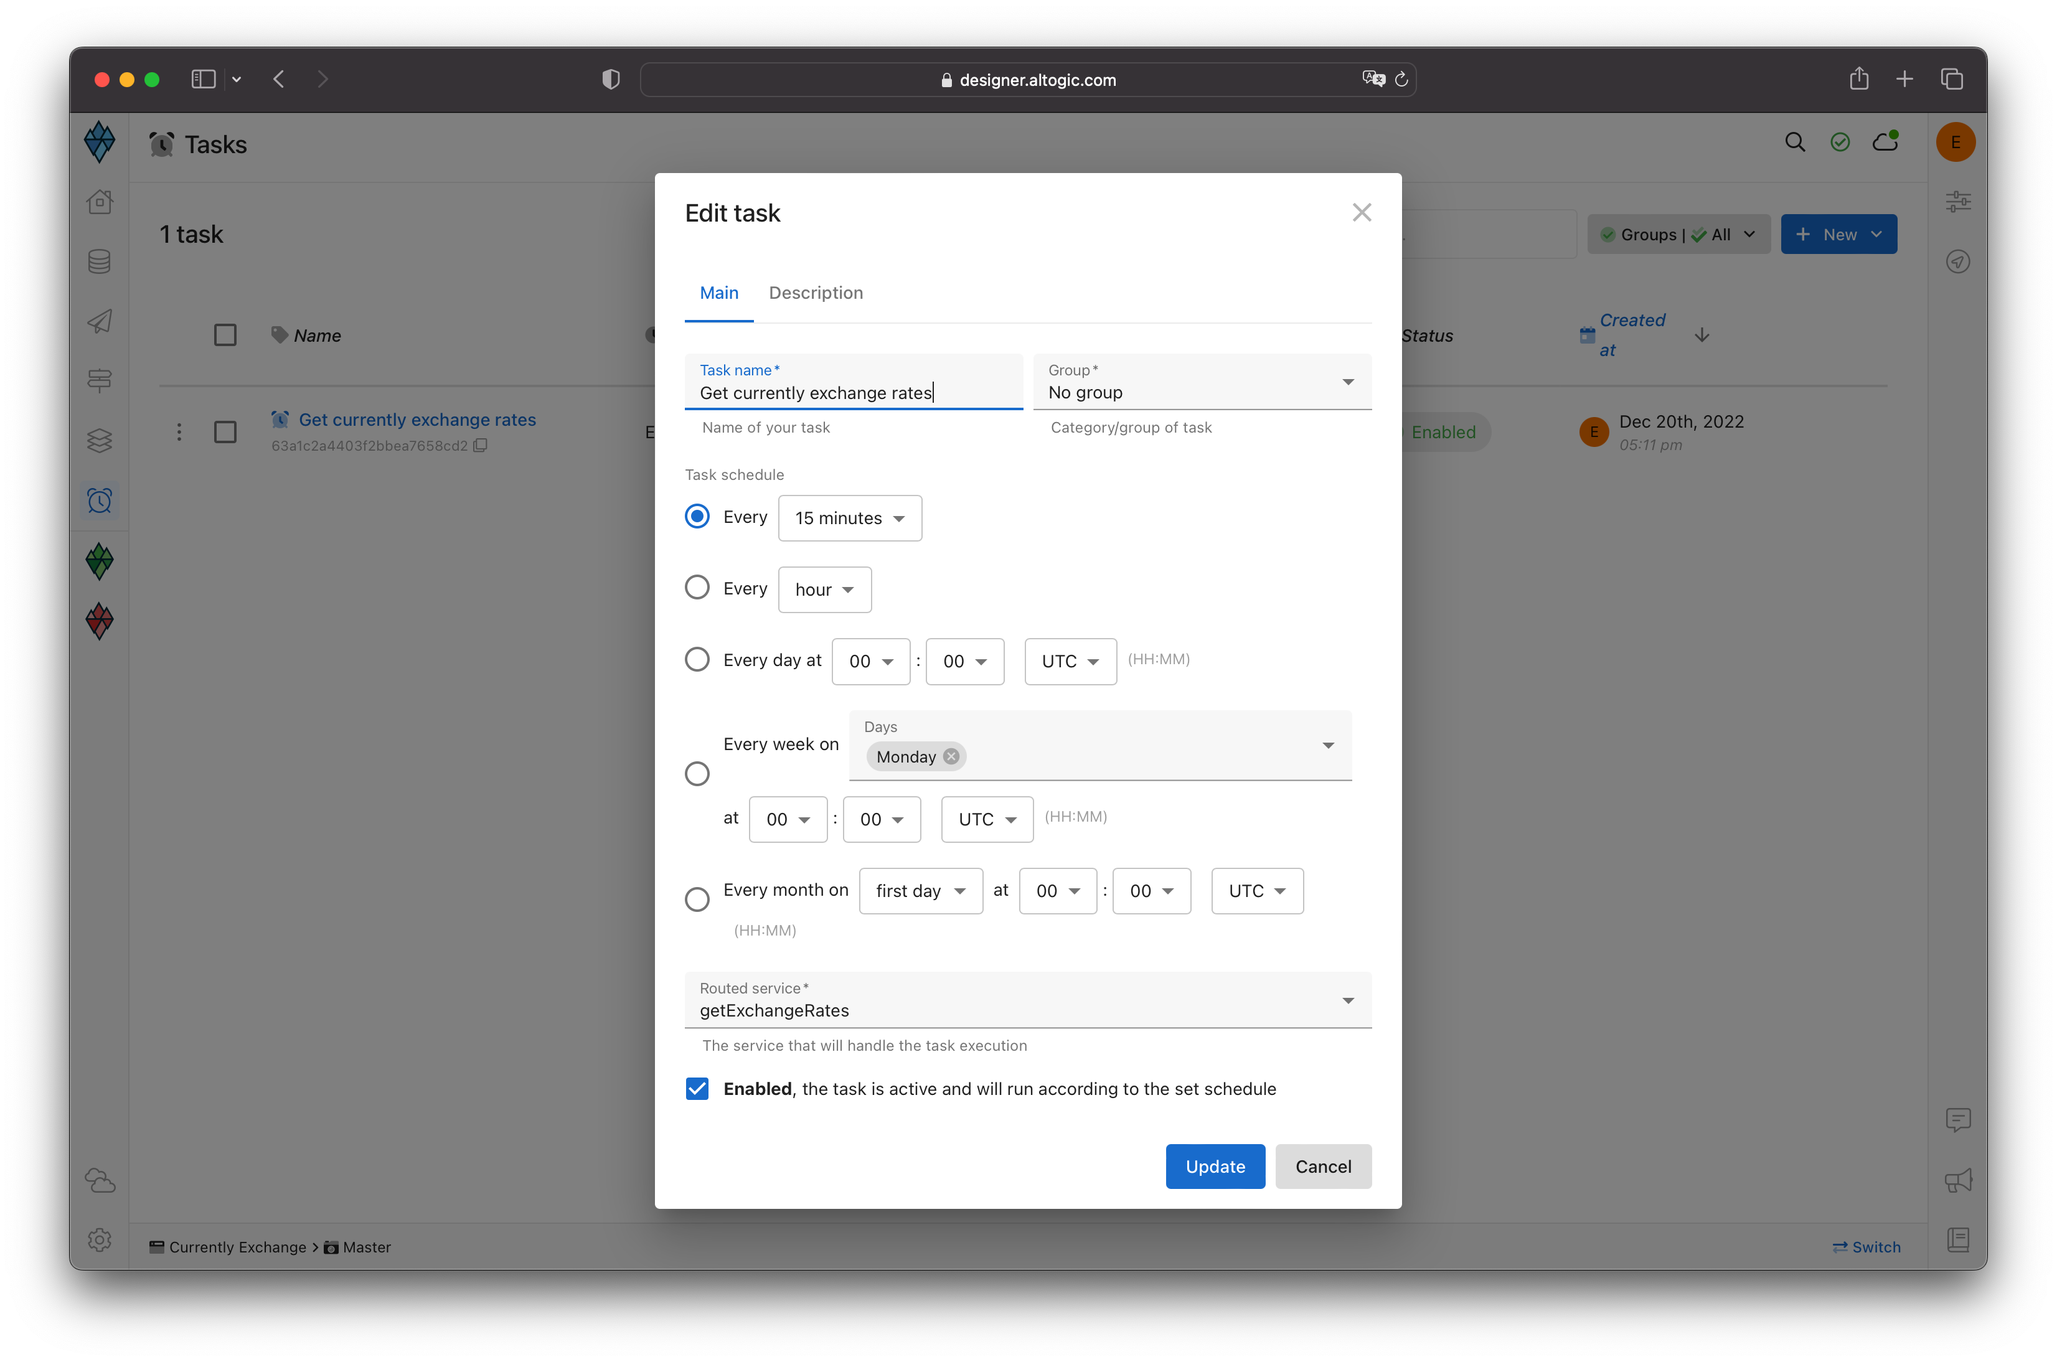
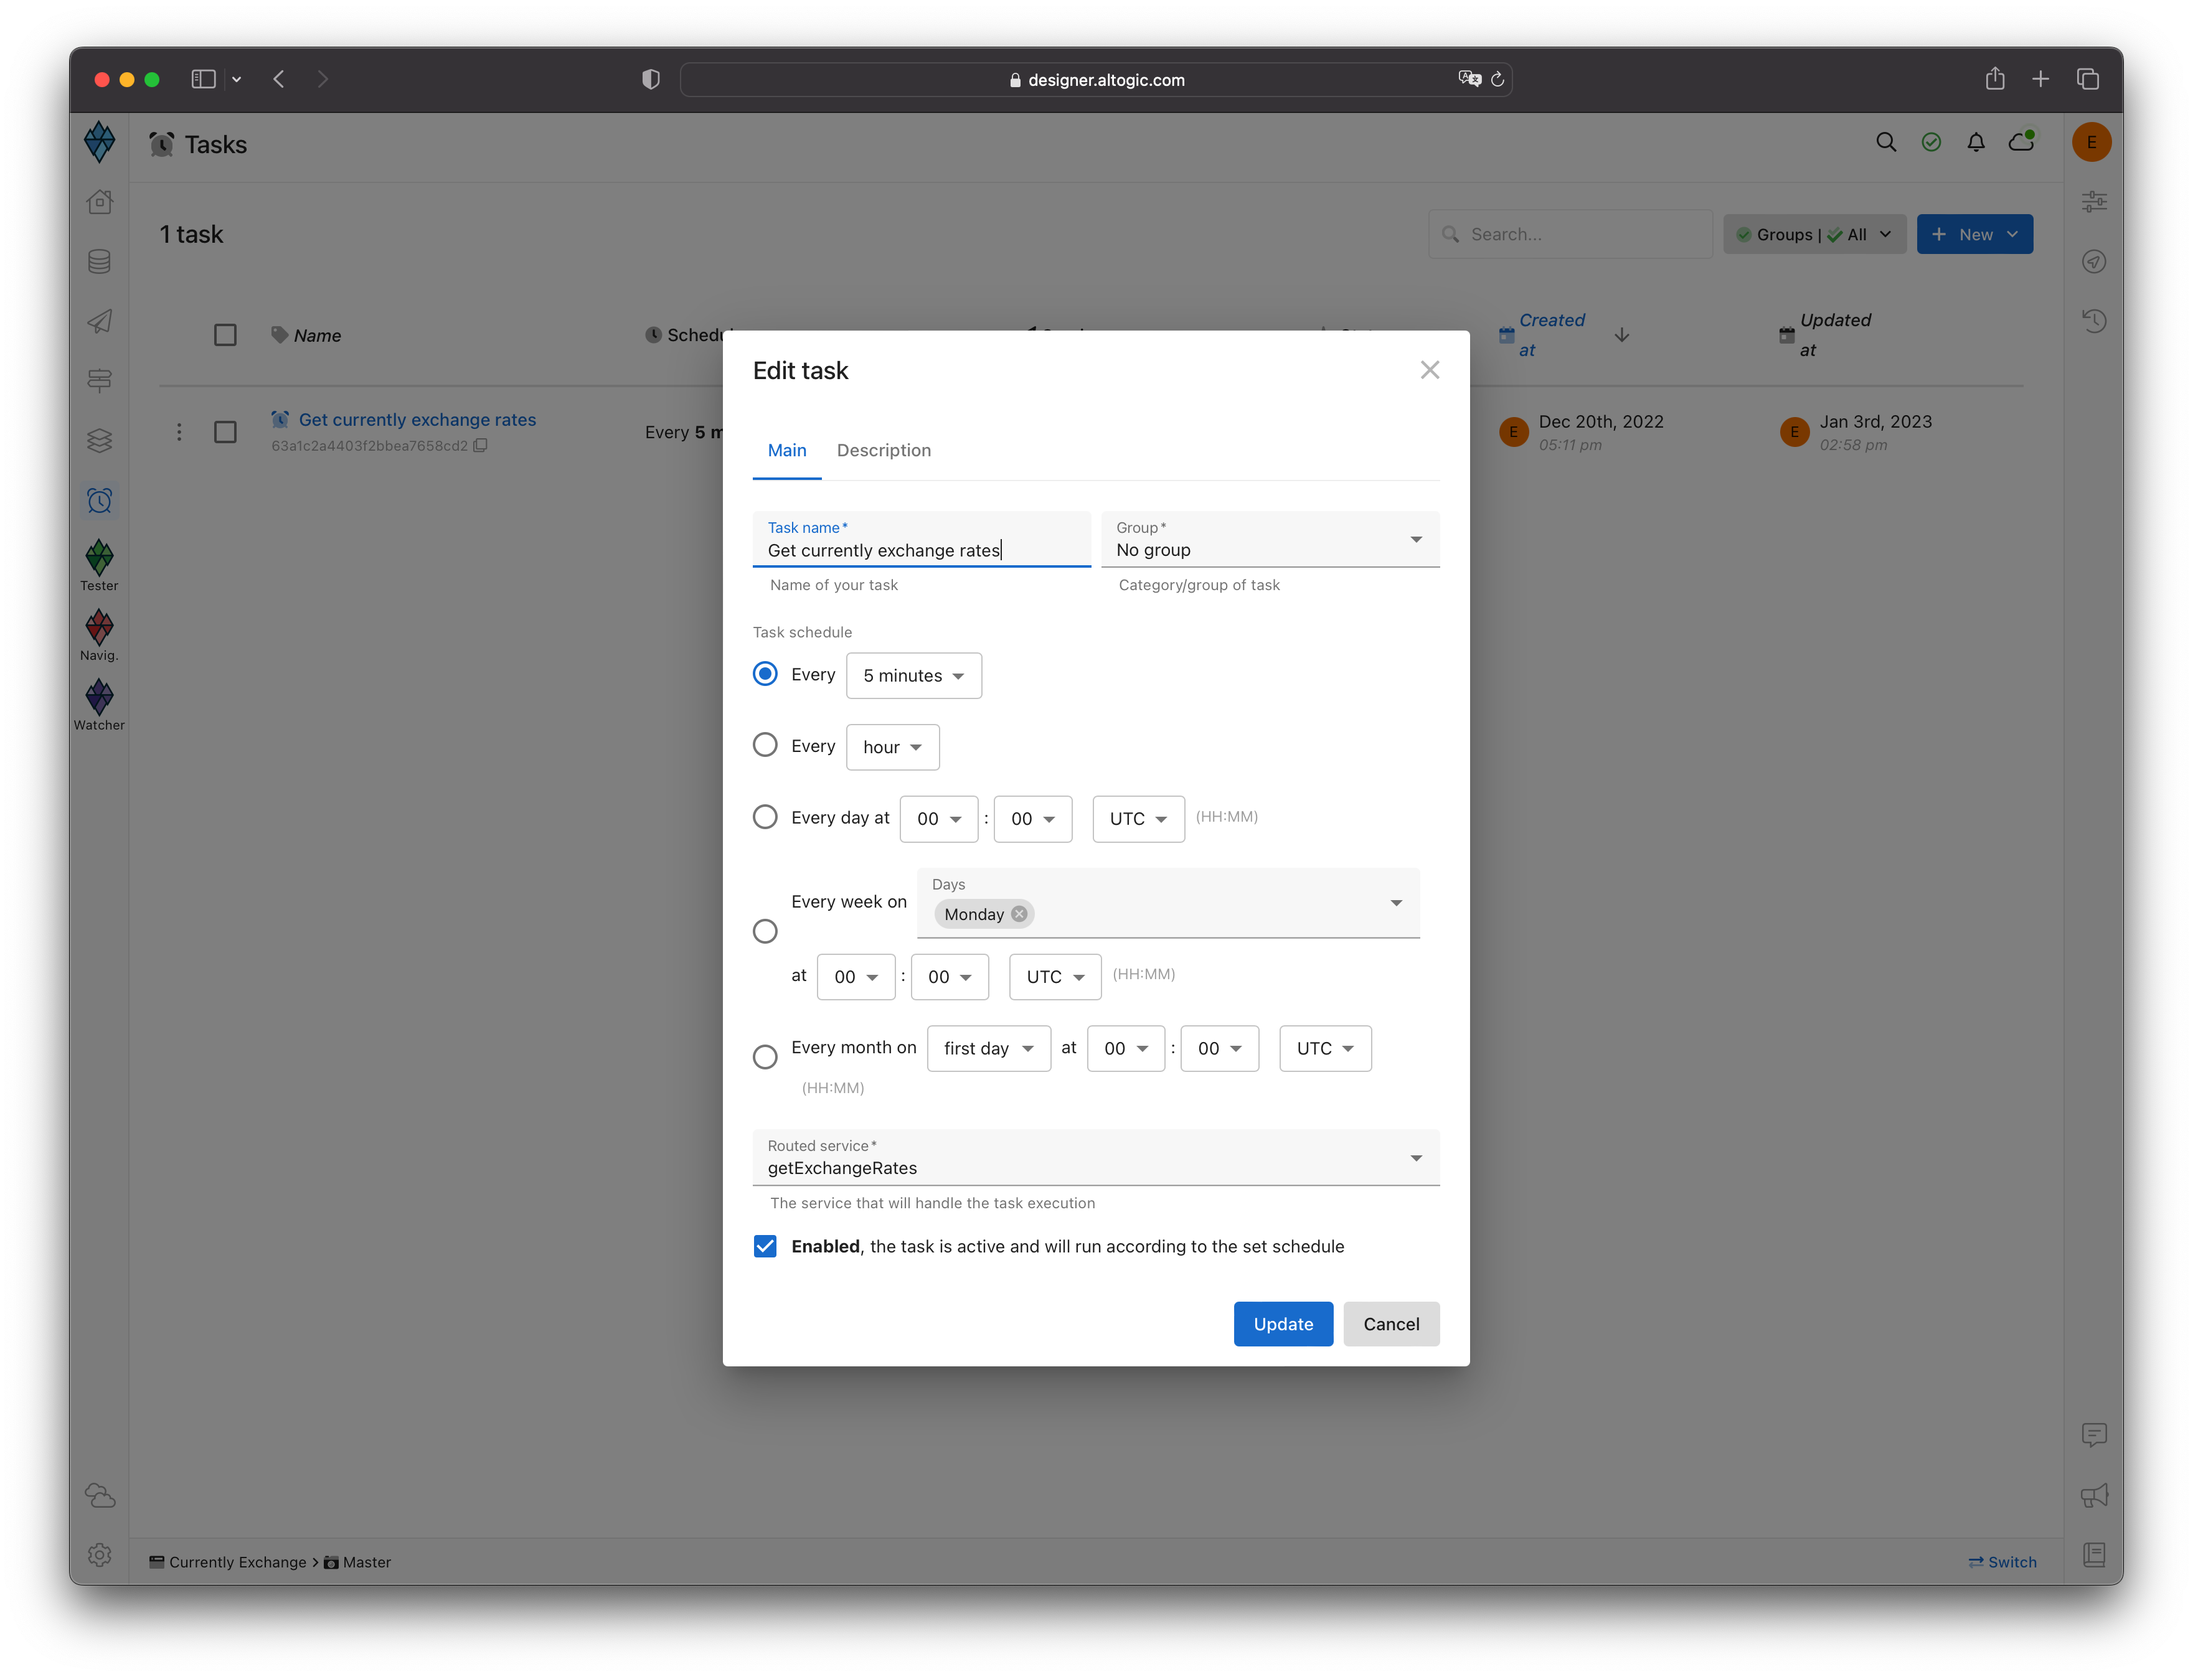
Exchange rates updated for new realtime service

diff --git a/README.md b/README.md
@@ -8,7 +8,7 @@ You can access the full source code on our example repository.
 
 Exchange Rates is an application that displays exchange rates instantly. 
 
-In this example, we will create a cloud function to pull the data and scrape the HTML page. We will create a cron job for the scrape process to run every 15 minutes and use the Realtime service to instantly reflect the captured data to the user after saving it to the database.
+In this example, we will create a cloud function to pull the data and scrape the HTML page. We will create a cron job for the scrape process to run every 5 minutes and use the Realtime service to instantly reflect the captured data to the user after saving it to the database.
 
 ## Creating an Altogic App
 First, let's create an altogic app.
@@ -78,7 +78,8 @@ The service will save the scraped data to the database.
 * <strong>`Get Object Value:`</strong> We have entered the picked value as "inputObject.body".
 * <strong>`Delete Multi Objects by Query:`</strong> We have selected "exchange_rates" in the Deleted object model and entered the select query as true.
 * <strong>`Synchronize Flow:`</strong> We have selected "pickedValue" in the Triggered inputs.
-* <strong>`Create Multi Objects:`</strong> We have selected "exchange_rates" in the Created objects model.
+* <strong>`Create Multi Objects:`</strong> We have selected "exchange_rates" in the Created objects model.* 
+* <strong>`Send Message to a Channel:`</strong> We have entered channel name value as "rates" and event name value as "update".
 * <strong>`Return Success Response:`</strong> We have connected it with the response.
 
 >  The `Synchronize Flow` node waits for execution flow until the execution completion of selected nodes. 
@@ -213,11 +214,8 @@ module.exports = async function (req, res) {
       }
     });
 
-  // Sends database and realtime channel
+  // Sends database and realtime channel in service
   altogic.endpoint.put("/currently", exchangeRates);
-
-  altogic.realtime.send("rates", "update", exchangeRates);
-  altogic.realtime.close();
 
   res.json(true);
 };
@@ -235,7 +233,7 @@ You can see the function we wrote on the <strong>Services -> Full-code</strong> 
 
 ![Cloud Function](github/function-service.png)
 
-Let's come to the task page and create a new task and connect the function we wrote. We set the time to 15 minutes.
+Let's come to the task page and create a new task and connect the function we wrote. We set the time to 5 minutes.
 
 ![Task](github/task.png)
 
@@ -423,13 +421,14 @@ import { ToastContainer } from "react-toastify";
 import "react-toastify/dist/ReactToastify.css";
 import Stats from "./components/stats";
 
+const MINUTES = 5;
+
 function App() {
   const [minutesLeft, setMinutesLeft] = useState(
-    15 - (new Date().getMinutes() % 15)
+    MINUTES - (new Date().getMinutes() % MINUTES)
   );
 
   useEffect(() => {
-    // Calculates minutes left every 1 seconds.
     setInterval(timer, 1000);
 
     return () => {
@@ -438,14 +437,14 @@ function App() {
   }, []);
 
   const timer = () => {
-    setMinutesLeft(15 - (new Date().getMinutes() % 15));
+    setMinutesLeft(MINUTES - (new Date().getMinutes() % MINUTES));
   };
 
   return (
     <div className="px-6 py-6 bg-slate-300 h-full">
       <h1 className="text-center">
-        Rates are updated instantly every 15 minutes. ({minutesLeft} minutes
-        left)
+        Rates are updated instantly every {MINUTES} minutes. ({minutesLeft}{" "}
+        minutes left)
       </h1>
 
       <Stats />
